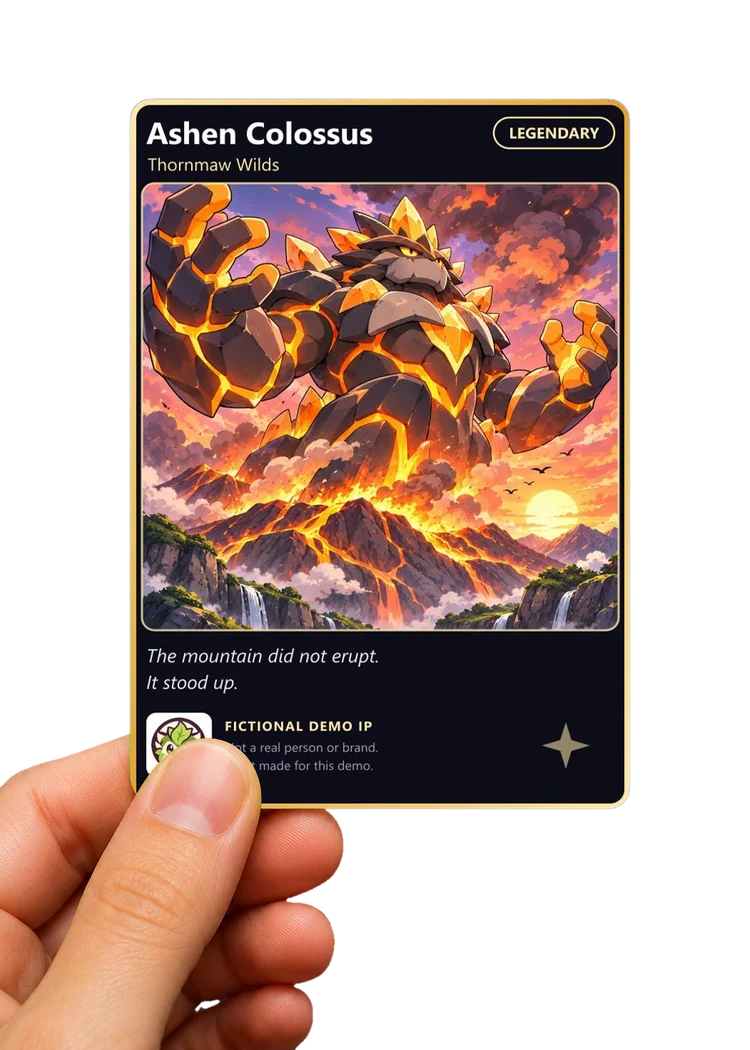
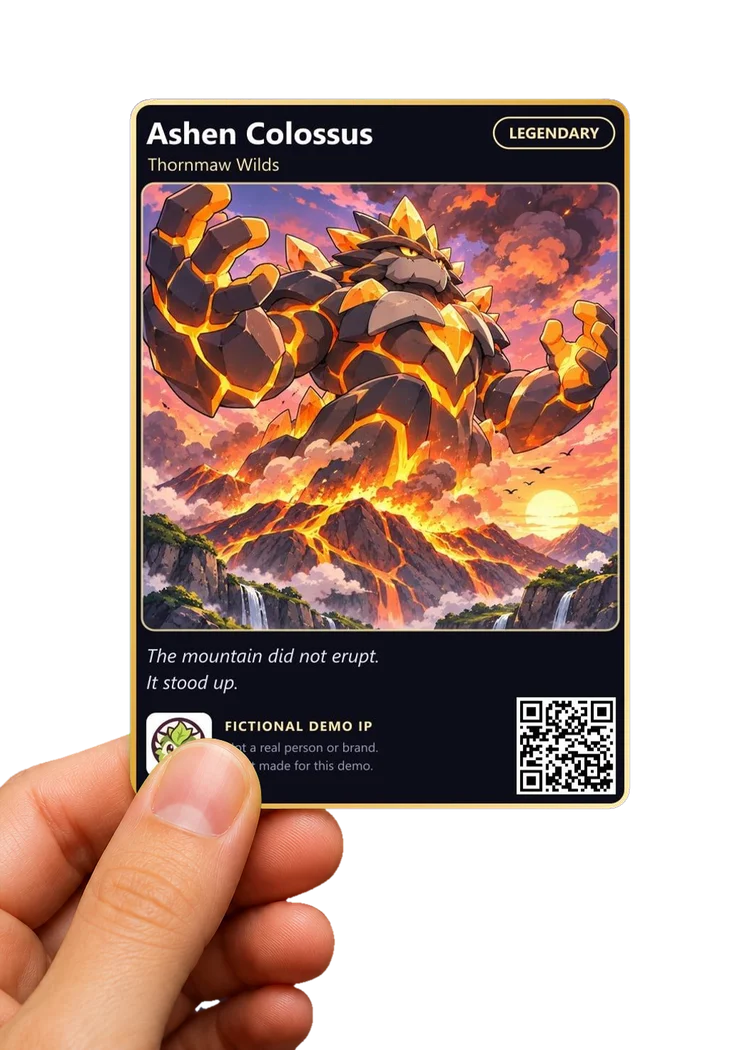
Show printed cards at trim size, and rename a category to Entertainers
The print preview drew the whole image, bleed included, with the QR placed
for a trimmed card, so the QR ran over the frame. The preview now shows what
trimming leaves. The hand mockup gets a QR that opens the Verify page.

Changed region(s): [[0.6747, 0.64, 0.828, 0.7619]]

diff --git a/frontend/app/globals.css b/frontend/app/globals.css
@@ -390,11 +390,19 @@ input[type="number"] { -moz-appearance: textfield; }
   background: var(--cn-surface-2);
   box-shadow: 0 0 0 1px #ffffff2e, 0 34px 60px -24px #000, 0 14px 50px -18px #c295fc80;
 }
-.print-card > img:first-child { display: block; width: 100%; height: 100%; object-fit: cover; }
+/* The image includes 3 mm of bleed on every side, which trimming removes (lib/pdf.ts). */
+.print-card > img:first-child {
+  position: absolute;
+  left: -4.762%;
+  top: -3.409%;
+  width: 109.524%;
+  height: 106.818%;
+  max-width: none;
+}
 .print-card-qr { position: absolute; right: 4.76%; bottom: 3.41%; width: 19%; aspect-ratio: 1; background: #fff; }
 .print-card-plate {
   position: absolute;
-  inset: 6% 8% auto;
+  inset: 5% 8% auto;
   display: grid;
   gap: 2px;
   padding: 0.5rem 0.65rem;

diff --git a/frontend/lib/categories.ts b/frontend/lib/categories.ts
@@ -1,5 +1,5 @@
 /** What a series is about, so a collector can find it. App data, not on chain. */
-export const CATEGORIES = ["Characters", "VTubers", "Actors & musicians", "Games & stories", "Other"];
+export const CATEGORIES = ["Characters", "VTubers", "Entertainers", "Games & stories", "Other"];
 export const DEFAULT_CATEGORY = "Other";
 
 export const cleanCategory = (value: unknown) =>
